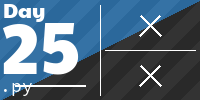
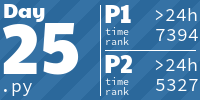
update 2015 day 25 tile

diff --git a/README.md b/README.md
@@ -168,7 +168,7 @@
   <img src="Media/2020/25.png" width="161px">
 </a>
 <h1 align="center">
-  2015 - 48 ⭐
+  2015 - 50 ⭐
 </h1>
 <a href="2015/python/01_Not_Quite_Lisp.py">
   <img src="Media/2015/01.png" width="161px">
